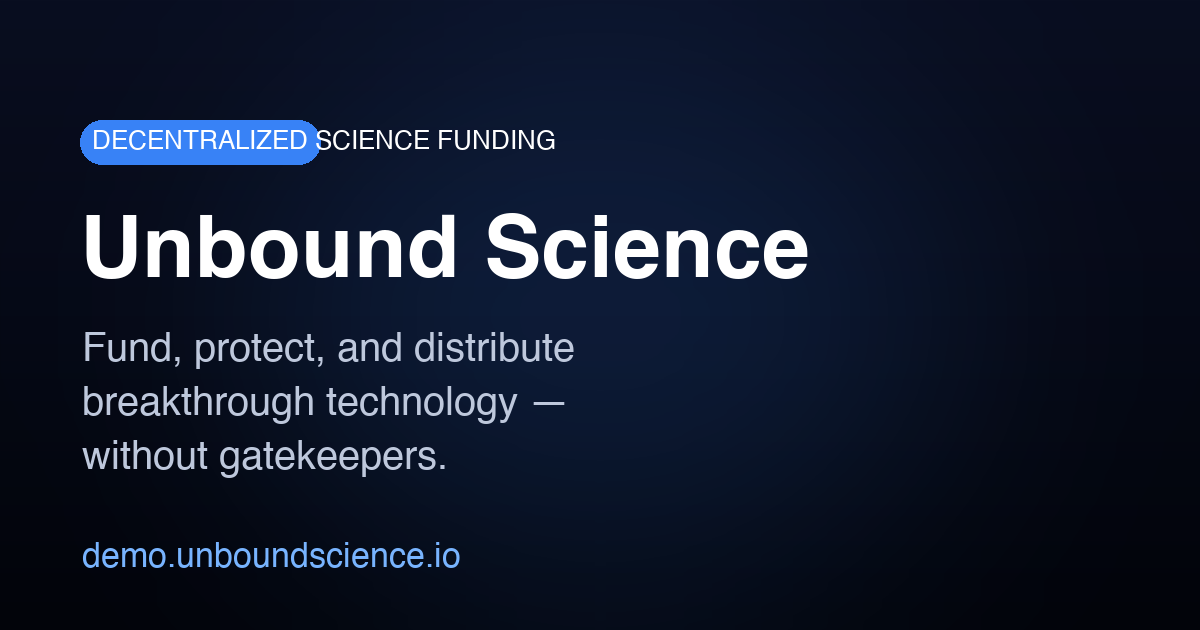
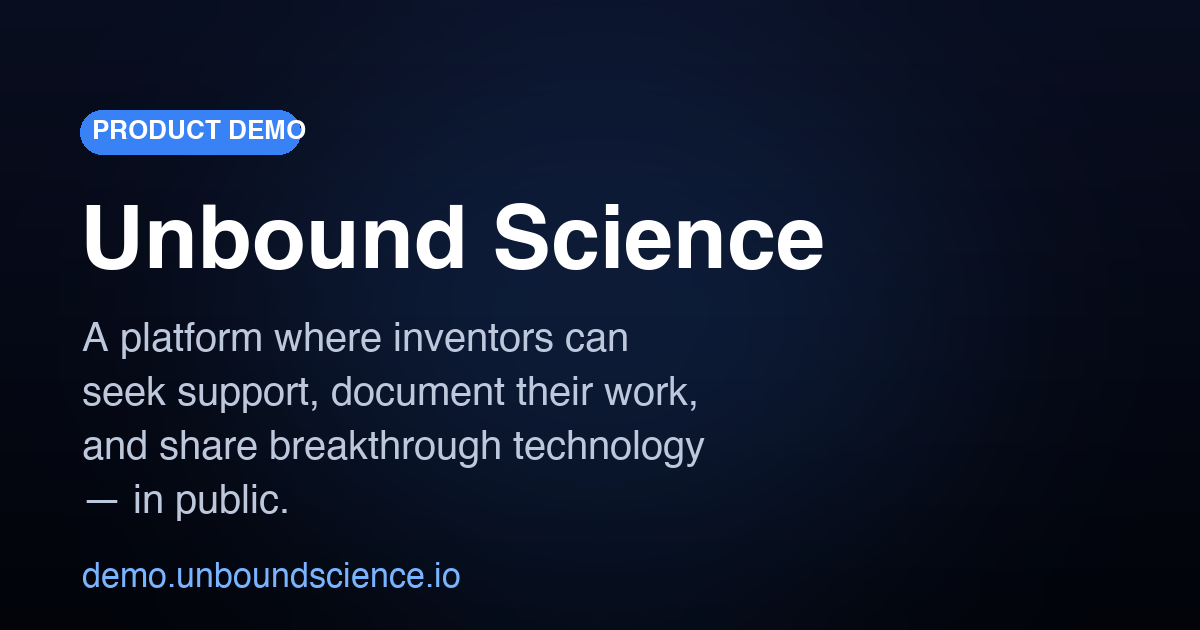
OBS-136: adopt GC-approved copy (OBS-138 §1) in meta/hero/OG; no 'first'/'fund'/'gatekeepers'

diff --git a/index.html b/index.html
@@ -5,12 +5,12 @@
     <link rel="icon" type="image/svg+xml" href="/favicon.svg" />
     <link rel="preload" as="image" href="/logo.png" />
     <meta name="viewport" content="width=device-width, initial-scale=1.0" />
-    <meta name="description" content="The first platform where inventors fund, protect, and distribute breakthrough technology — without gatekeepers." />
+    <meta name="description" content="A platform where inventors can seek support, document their work, and share breakthrough technology — in public." />
     <title>Unbound Science — Decentralized Science Funding</title>
     <meta property="og:type" content="website" />
     <meta property="og:site_name" content="Unbound Science" />
     <meta property="og:title" content="Unbound Science — Decentralized Science Funding" />
-    <meta property="og:description" content="The first platform where inventors fund, protect, and distribute breakthrough technology — without gatekeepers." />
+    <meta property="og:description" content="A platform where inventors can seek support, document their work, and share breakthrough technology — in public." />
     <meta property="og:url" content="https://unboundscience.com/" />
     <meta property="og:image" content="https://unboundscience.com/og-image.png" />
     <meta property="og:image:width" content="1200" />
@@ -18,7 +18,7 @@
     <meta property="og:image:type" content="image/png" />
     <meta name="twitter:card" content="summary_large_image" />
     <meta name="twitter:title" content="Unbound Science — Decentralized Science Funding" />
-    <meta name="twitter:description" content="The first platform where inventors fund, protect, and distribute breakthrough technology — without gatekeepers." />
+    <meta name="twitter:description" content="A platform where inventors can seek support, document their work, and share breakthrough technology — in public." />
     <meta name="twitter:image" content="https://unboundscience.com/og-image.png" />
     <link rel="preconnect" href="https://fonts.googleapis.com">
     <link rel="preconnect" href="https://fonts.gstatic.com" crossorigin>

diff --git a/src/components/Hero.jsx b/src/components/Hero.jsx
@@ -23,7 +23,7 @@ export function Hero() {
         <div className={styles.content} style={{ opacity: contentOpacity }}>
           <h1 className={styles.title}>Science shouldn't need permission</h1>
           <p className={styles.subtitle}>
-            The first platform where inventors fund, protect, and distribute breakthrough technology — without gatekeepers.
+            A platform where inventors can seek support, document their work, and share breakthrough technology — in public.
           </p>
           <div className={styles.buttons}>
             <a href={demoUrl('btn-hero-scientist-01')} className={styles.btnSecondary}>
